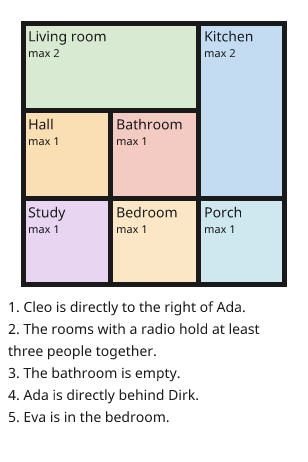
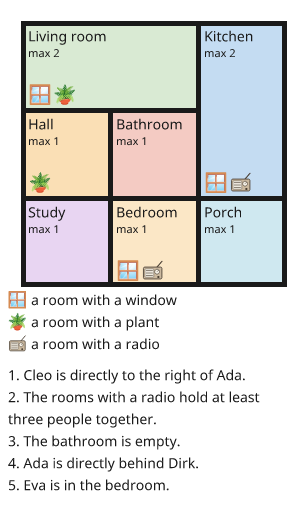
Draw every room property in its room, with a key under the plan
The clues name rooms by a window, a plant or a radio, so the picture now shows them: every room carries an icon for each of its tags, taken from the icon catalogue, and a key under the plan names each one. A property the catalogue does not know gets a lettered badge and still appears in the key. Adds to the registry a hand-drawn radio and hammer (with gereedschap, hamer and tools mapped to it), and the people in the solution are drawn as one line per room so names and icons never collide.

Changed region(s): [[0.0292, 0.1515, 0.9351, 0.9394], [0.0584, 0.0303, 0.9351, 0.1212]]

diff --git a/src/csp/picture.py b/src/csp/picture.py
@@ -1731,17 +1731,22 @@ def rooms_picture(
     cell: int = 88,
     interactive: bool = False,
 ) -> Canvas:
-    """The plan as a floor plan, with the numbered clues printed underneath.
+    """The plan as a floor plan: each room with its properties, and the clues underneath.
 
-    Each room is filled with its colour, labelled with its capacity, and the
-    solution writes the people's names in their room. Two neighbouring rooms are
-    always drawn apart, so rooms that share a colour still read as separate.
+    Every room is filled with its colour and labelled with its capacity, with an
+    icon for each property a clue can name (a window, a radio). A key under the
+    plan says what each icon means, and the solution writes the people in their
+    rooms. Two neighbouring rooms are always drawn apart, so rooms that share a
+    colour still read as separate.
     """
     solution = None if interactive else solution
     margin = max(12, cell // 4)
     small = max(9, cell // 6)
     line_height = max(15, cell // 4)
+    icon_size = max(11, int(cell * 0.26))
     board_width = puzzle.width * cell
+    tag_icons = {tag: icons.object_icon(tag) for tag in puzzle.tags}
+    legend = [(tag, tag_icons[tag], puzzle.phrase(tag)) for tag in puzzle.tags]
     clue_lines = [
         line
         for number, sentence in enumerate(puzzle.clue_lines, 1)
@@ -1749,7 +1754,12 @@ def rooms_picture(
             f"{number}. {sentence}", width=max(24, int(board_width / (small * 0.47)))
         )
     ]
-    height = margin * 2 + puzzle.height * cell + line_height * (len(clue_lines) + 1)
+    height = (
+        margin * 2
+        + puzzle.height * cell
+        + len(legend) * line_height
+        + (len(clue_lines) + 1) * line_height
+    )
     canvas = Canvas(board_width + 2 * margin, height)
     thick = max(5, cell // 20) | 1
     for row in range(puzzle.height):
@@ -1778,9 +1788,12 @@ def rooms_picture(
     )
     for room in puzzle.rooms:
         top, left = min(room.cells)
+        rows = [row for row, _ in room.cells]
         cols = [col for _, col in room.cells]
         x, y = margin + left * cell, margin + top * cell
         span = (max(cols) - min(cols) + 1) * cell
+        depth = (max(rows) - min(rows) + 1) * cell
+        properties = [tag for tag in puzzle.tags if room.key in puzzle.tags[tag]]
         size = _fit(canvas, room.title, small, span * 0.9)
         canvas.text((x + cell * 0.07, y + cell * 0.05), room.title, INK, size, anchor="la")
         canvas.text(
@@ -1790,19 +1803,45 @@ def rooms_picture(
             max(8, int(size * 0.8)),
             anchor="la",
         )
+        for index, tag in enumerate(properties):
+            box = (
+                x + cell * 0.08 + index * icon_size * 1.12,
+                y + depth - icon_size - cell * 0.05,
+                x + cell * 0.08 + icon_size + index * icon_size * 1.12,
+                y + depth - cell * 0.05,
+            )
+            _draw_property(canvas, tag, tag_icons[tag], box)
         people = [
             person for person in puzzle.people if solution and solution.get(person) == room.label
         ]
-        for index, person in enumerate(people):
-            py = y + cell * 0.5 + index * max(11, cell // 5)
-            canvas.text((x + cell * 0.09, py), person, SOLVED, max(10, cell // 7), anchor="la")
-    y = margin + puzzle.height * cell + line_height // 2
+        if people:
+            names = ", ".join(people)
+            font = _fit(canvas, names, max(10, cell // 7), span * 0.86)
+            canvas.text((x + span / 2, y + depth * 0.55), names, SOLVED, font, "mm")
+    cursor_y = margin + puzzle.height * cell + line_height * 0.2
+    for tag, icon, phrase in legend:
+        box = (8, cursor_y, 8 + icon_size * 0.85, cursor_y + icon_size * 0.85)
+        _draw_property(canvas, tag, icon, box)
+        canvas.text((8 + icon_size * 1.05, cursor_y + icon_size * 0.42), phrase, INK, small, "lm")
+        cursor_y += line_height
+    cursor_y += line_height * 0.4
     for line in clue_lines:
-        canvas.text((8, y), line, INK, small, anchor="lt")
-        y += line_height
+        canvas.text((8, cursor_y), line, INK, small, anchor="lt")
+        cursor_y += line_height
     if interactive:
         _rect_cells(canvas, puzzle.height, puzzle.width, margin, cell)
     return canvas
+
+
+def _draw_property(
+    canvas: Canvas, tag: str, icon: icons.Icon | None, box: tuple[float, float, float, float]
+) -> None:
+    """A room property's icon, or a lettered badge when the catalogue has none."""
+    if icon is not None and icons.draw(canvas, icon, box):
+        return
+    x0, y0, x1, y1 = box
+    canvas.rectangle(box, outline=INK, width=2, radius=(x1 - x0) * 0.2)
+    canvas.text(((x0 + x1) / 2, (y0 + y1) / 2), tag[:1].upper(), INK, (y1 - y0) * 0.7, "mm")
 
 
 def _hex_colour(value: str) -> tuple[int, int, int]:

diff --git a/src/csp/icons.py b/src/csp/icons.py
@@ -646,6 +646,29 @@ WELL = (
     '<rect x="26" y="21" width="69" height="9"/></g>'
     '<line x1="60.5" y1="31" x2="60.5" y2="92.5" stroke="#e1cf9b" stroke-width="3"/>'
 )
+# A portable radio: an aerial, a speaker grille and two knobs.
+RADIO = (
+    '<line x1="70" y1="34" x2="92" y2="8" stroke="#4a3f33" stroke-width="5"'
+    ' stroke-linecap="round"/>'
+    '<rect x="8" y="34" width="84" height="54" rx="6" fill="#cbb99f" stroke="#4a3f33"'
+    ' stroke-width="4"/>'
+    '<rect x="15" y="42" width="40" height="38" rx="3" fill="#f6f1e6" stroke="#4a3f33"'
+    ' stroke-width="2"/>'
+    '<g stroke="#4a3f33" stroke-width="3" stroke-linecap="round">'
+    '<line x1="21" y1="50" x2="49" y2="50"/><line x1="21" y1="61" x2="49" y2="61"/>'
+    '<line x1="21" y1="72" x2="49" y2="72"/></g>'
+    '<circle cx="70" cy="55" r="11" fill="#f6f1e6" stroke="#4a3f33" stroke-width="3"/>'
+    '<line x1="70" y1="55" x2="77" y2="48" stroke="#4a3f33" stroke-width="3"/>'
+    '<circle cx="76" cy="79" r="5" fill="#4a3f33"/>'
+)
+# A claw hammer, for a room with tools.
+HAMMER = (
+    '<rect x="44" y="26" width="13" height="66" rx="5" fill="#a9773f" stroke="#4f3a24"'
+    ' stroke-width="3"/>'
+    '<path d="M14 22h50a10 10 0 0 1 0 20H42L14 40z" fill="#9aa3ab" stroke="#3f464c"'
+    ' stroke-width="4"/>'
+    '<path d="M64 20l22 4v20l-22 4z" fill="#7d868e" stroke="#3f464c" stroke-width="4"/>'
+)
 # An ornamental onion (allium): a purple ball of florets on a long stem.
 ALLIUM = (
     '<path d="M50 60V96" stroke="#4c8c3a" stroke-width="5" stroke-linecap="round"/>'
@@ -833,6 +856,8 @@ REGISTRY: dict[str, Icon] = {
         Icon("cross", "\u2717", "no", markup=SHAPES["cross"]),
         Icon("carpet", "\u25a6", "carpet", markup=CARPET, view=(0, 0, 121, 121)),
         Icon("well", "\u25ce", "well", markup=WELL, view=(0, 0, 121, 121)),
+        Icon("radio", "\u266b", "radio", markup=RADIO),
+        Icon("hammer", "\u2692", "hammer", markup=HAMMER),
         Icon("staircase", "\u21d7", "staircase", markup=STAIRCASE),
         Icon("counter", "\u25a4", "reception counter", markup=COUNTER),
         Icon("table", "\u25a4", "table", markup=TABLE),
@@ -968,6 +993,9 @@ OBJECT_ICONS = {"bench": "bench", "bankje": "bench", "parkbank": "bench",
                 "rails": "rails", "spoor": "rails", "track": "rails",
                 "loopplank": "gangplank", "gangplank": "gangplank",
                 "katana": "katana", "zwaard": "katana", "sword": "katana",
+                "radio": "radio",
+                "hamer": "hammer", "hammer": "hammer",
+                "gereedschap": "hammer", "tools": "hammer", "toolbox": "hammer",
                 "jumpsuit": "jumpsuit", "overall": "jumpsuit",
                 "wagen": "van", "busje": "van", "van": "van",
                 "neon": "neon", "neonbord": "neon", "uithangbord": "signboard"}  # fmt: skip

diff --git a/tests/test_rooms.py b/tests/test_rooms.py
@@ -2,7 +2,7 @@
 
 import pytest
 
-from csp import bruteforce, cli, picture, report, rooms
+from csp import bruteforce, cli, icons, picture, report, rooms
 from csp.bruteforce import rooms as brute
 from csp.core import Solver
 from tests.examples import example, played_examples
@@ -169,6 +169,35 @@ def test_every_rooms_example_needs_each_of_its_clues(name):
         kept = [item for index, item in enumerate(clues) if index != number]
         fewer = "\n".join([*lines[:start], *kept, *lines[end:]]) + "\n"
         assert len(bruteforce.solutions(fewer, "rooms", limit=2)) > 1, clue
+
+
+@pytest.mark.parametrize("name", ROOMS_EXAMPLES)
+def test_every_room_property_in_the_examples_has_a_picture(name):
+    puzzle = rooms.parse(example(name).read_text())
+    assert puzzle.tags, name
+    for tag in puzzle.tags:
+        assert icons.object_icon(tag) is not None, tag
+
+
+def test_the_picture_shows_each_rooms_properties_with_a_key():
+    puzzle = rooms.parse(example("rooms_2_5x7.txt").read_text())
+    image = picture.rooms_picture(puzzle, cell=70).to_svg()
+    for tag in puzzle.tags:
+        icon = icons.object_icon(tag)
+        assert icon is not None
+        marker = f"emoji-{icon.emoji}" if icon.emoji else f"icon-{icon.name}"
+        assert marker in image, tag
+        assert puzzle.phrase(tag) in image, tag
+
+
+def test_a_property_the_catalogue_does_not_know_gets_a_lettered_badge():
+    """An unknown property still gets a marker in its rooms and a line in the key."""
+    assert icons.object_icon("zorblax") is None
+    text = puzzle_with("Ada in area:c\n").replace("clock: a d\n", "clock: a d\nzorblax: a c\n")
+    puzzle = rooms.parse(text)
+    image = picture.rooms_picture(puzzle, cell=70).to_svg()
+    assert "zorblax" in puzzle.tags
+    assert "zorblax" in image
 
 
 @pytest.mark.parametrize("name", ROOMS_EXAMPLES)

diff --git a/tests/test_picture.py b/tests/test_picture.py
@@ -1450,6 +1450,7 @@ def test_starbattle_picture_distinguishes_given_and_solved_stars():
         "akari_1_6x6.txt",
         "kakurasu_1_4x4.txt",
         "battleships_1_6x6_fleet.txt",
+        "rooms_2_5x7.txt",
     ],
 )
 def test_family_png_cli_writes_nonblank_solution(name, tmp_path):

diff --git a/RELEASE_NOTES.md b/RELEASE_NOTES.md
@@ -3,7 +3,8 @@
 ## Unreleased
 
 **New**
-* A rooms puzzle family (#263): people choose rooms on a small plan instead of squares on a grid. Several people may share a room, a room may stay empty, and a room never holds more than its capacity. Clues name rooms by their properties, count the people in a group of rooms, say who is together, apart or alone, and place people relative to each other on the plan. The model is one variable per person over the rooms, one `COUNT` per room capacity, and a count or relation per clue; "alone" reuses one hidden literal per pair of people so it stays a small clue rather than a relation over everyone. The family comes with an independent brute force, a floor-plan picture with its numbered clues, `--explain`, a `puzzle-lab fresh rooms` builder and three original examples: `rooms_1_4x5` (`count`), `rooms_2_5x7` (`relations`) and hard `rooms_3_6x8` (`what_if`). The web player lists it read-only, like the logic grid.
+* A rooms puzzle family (#263): people choose rooms on a small plan instead of squares on a grid. Several people may share a room, a room may stay empty, and a room never holds more than its capacity. Clues name rooms by their properties, count the people in a group of rooms, say who is together, apart or alone, and place people relative to each other on the plan. The model is one variable per person over the rooms, one `COUNT` per room capacity, and a count or relation per clue; "alone" reuses one hidden literal per pair of people so it stays a small clue rather than a relation over everyone. The family comes with an independent brute force, a floor-plan picture that draws a property's icon in every room that has it (with a key naming each one) plus its numbered clues, `--explain`, a `puzzle-lab fresh rooms` builder and three original examples: `rooms_1_4x5` (`count`), `rooms_2_5x7` (`relations`) and hard `rooms_3_6x8` (`what_if`). The web player lists it read-only, like the logic grid.
+    * A count over a group of rooms (a `Tags:` entry) speaks for all of them together, so its sentence says so ("The rooms with a radio hold three people together") instead of claiming one room holds them; `Words:` may give the group form after a `|`, and the new `radio` and `hammer` drawings join the icon registry.
 * `Key:` clues are a checked contract: `tests/test_key_clues.py` proves for every published Murdoku that removing a declared key clue costs the puzzle its unique solution or its deduction, and `csp.clue_search.without_keys` gives tooling the puzzle without its `Key:` block. `thin` already kept keyed clues; authors now get the necessity check for free by declaring them.
 * Documentation refactor (#247): a shorter README, dedicated CLI, Murdoku grammar and web-interface pages, a compact agent-facing collection reference, and both authoring skills split into short entry points with on-demand `references/` files.
 * Worked solutions for every family: `--explain` and booklet solutions no longer stop at Murdoku and Sudoku. A new generic narrator (`generic_story`) tells any solve from the compiled model alone, with no per-family code: clue deductions are grouped per puzzle rule ("By *each number once per column*, …"), cells are named in row or column runs ("r2c4–r2c6 yes"), and chains ("If r5c4 ≠ 4, then r2c4 = 4, so …"), combined rules and what-ifs ("Suppose r2c2 = 6. Then … would follow, but *9+ cage …* fails") read as short arguments. A deterministic thinning pass keeps only the moves the proof needs. Sudoku keeps its own patterns and falls back to the generic story where they stop, so `sudoku_33` now explains its chains instead of exiting with a gap. Battleships' technical trace is replaced too.

diff --git a/docs/model-and-puzzle-formats.md b/docs/model-and-puzzle-formats.md
@@ -214,7 +214,7 @@ Ada dir:up Cleo
 exactly 1 of (Ada in area:e; Ben in area:e)
 ```
 
-`Rooms:` gives each room's capacity, colour and label; `Tags:` groups rooms so one clue can name the group. `Words:` renames a room or group in the sentences the solver writes, and a clue line may end in `| wording`. An entry for a group may give a second form after `|` for counts, which speak for the whole group at once: with `radio: a room with a radio | the rooms with a radio`, a person is "in a room with a radio" while a count says "The rooms with a radio hold three people together", never "a room holds three" when no single room can. Clause forms:
+`Rooms:` gives each room's capacity, colour and label; `Tags:` groups rooms so one clue can name the group, and the picture draws a property's icon in every room that has it, with a key under the plan naming each one. `Words:` renames a room or group in the sentences the solver writes, and a clue line may end in `| wording`. An entry for a group may give a second form after `|` for counts, which speak for the whole group at once: with `radio: a room with a radio | the rooms with a radio`, a person is "in a room with a radio" while a count says "The rooms with a radio hold three people together", never "a room holds three" when no single room can. Clause forms:
 
 | Clause | Meaning |
 |---|---|
